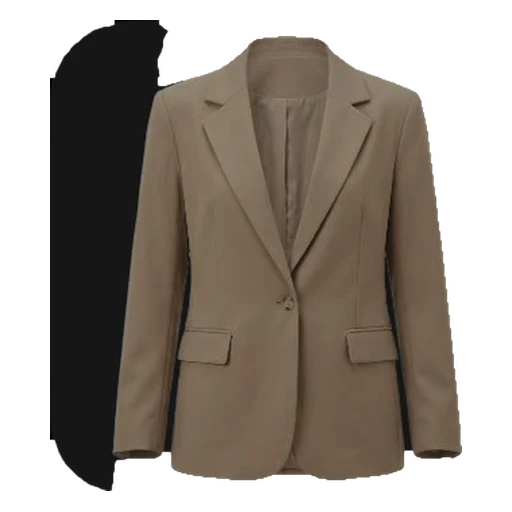
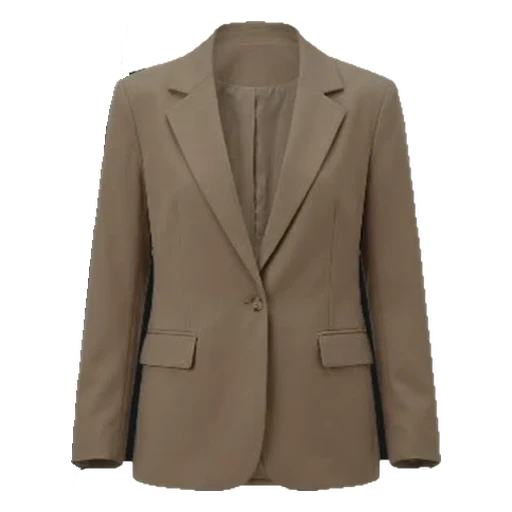
guarda-roupa: 210 pecas dos prints, joias e chapeus separados, sub-filtros

diff --git a/js/app.js b/js/app.js
@@ -39,7 +39,7 @@
     vestido: { l: 27, t: 5, w: 46 }, top: { l: 5, t: 8, w: 40 }, casaco: { l: 46, t: 3, w: 51 },
     bottom: { l: 8, t: 42, w: 43 }, calcado: { l: 58, t: 58, w: 29 }
   };
-  var ACC_POS = [{ l: 5, t: 76, w: 19 }, { l: 27, t: 79, w: 17 }, { l: 47, t: 82, w: 16 }, { l: 66, t: 84, w: 15 }];
+  // faixa de acessórios: linha limpa embaixo, distribuída conforme a quantidade
 
   var PROMPT_PRODUTO = "foto de produto desta peça de roupa, vestida em manequim invisível, esticada sem amassados, fundo branco puro, luz de estúdio suave, vista frontal centralizada, peça inteira visível, sem pessoa, sem sombra no chão";
   var PROMPT_LOOK = "a modelo da primeira imagem vestindo exatamente as peças da segunda imagem, mesma pose de pé de frente, corpo inteiro dos pés à cabeça, mesmo rosto e mesmo cabelo, fundo branco liso, luz de estúdio suave e uniforme, foto de catálogo realista, roupas caindo naturalmente no corpo, sem alterar o rosto, sem texto";
@@ -363,7 +363,7 @@
       m.appendChild(f);
       var r = el("div", "row");
       var b1 = el("button", "btn solid"); b1.innerHTML = svg(IC.check) + " Usar num look";
-      b1.onclick = function () { if (it.cat === "acessorio") { if (S.acc.indexOf(it.id) < 0) S.acc.push(it.id); } else { S.sel[it.cat] = it.id; } fechar(); abrirMontador(); };
+      b1.onclick = function () { if (it.cat === "acessorio" || it.cat === "joia" || it.cat === "chapeu") { if (S.acc.indexOf(it.id) < 0) S.acc.push(it.id); } else { S.sel[it.cat] = it.id; } fechar(); abrirMontador(); };
       r.appendChild(b1);
       var b2 = el("button", "btn"); b2.innerHTML = svg(IC.spark) + (it.pendente ? " Tratar foto" : " Refazer foto");
       b2.onclick = function () { tratarPeca(it, b2); };
@@ -403,11 +403,22 @@
       var p = LAY[role]; var im = el("img"); im.src = byId[id].src; im.alt = byId[id].nome;
       im.style.left = p.l + "%"; im.style.top = p.t + "%"; im.style.width = p.w + "%"; box.appendChild(im);
     });
-    (accs || []).slice(0, 4).forEach(function (id, k) {
-      if (!byId[id]) return; var p = ACC_POS[k];
-      var im = el("img"); im.src = byId[id].src; im.alt = byId[id].nome;
-      im.style.left = p.l + "%"; im.style.top = p.t + "%"; im.style.width = p.w + "%"; box.appendChild(im);
-    });
+    var lista = (accs || []).filter(function (id) { return byId[id]; }).slice(0, 6);
+    if (lista.length) {
+      var n = lista.length;
+      var w = n <= 2 ? 20 : n <= 4 ? 17 : 14;      // peça menor conforme enche a faixa
+      var gap = 3, total = n * w + (n - 1) * gap;
+      var x0 = (100 - total) / 2;
+      lista.forEach(function (id, k) {
+        var im = el("img"); im.src = byId[id].src; im.alt = byId[id].nome;
+        im.style.left = (x0 + k * (w + gap)) + "%";
+        im.style.top = "78%";
+        im.style.width = w + "%";
+        im.style.height = "20%";
+        im.style.objectFit = "contain";
+        box.appendChild(im);
+      });
+    }
     if (!Object.keys(sel).length && !(accs || []).length) box.appendChild(el("div", "ph", "escolha as peças"));
   }
 
@@ -416,7 +427,7 @@
       S.sel = {}; S.acc = [];
       (edit.itens || []).forEach(function (id) {
         var it = byId[id]; if (!it) return;
-        if (it.cat === "acessorio") S.acc.push(id); else S.sel[it.cat] = id;
+        if (it.cat === "acessorio" || it.cat === "joia" || it.cat === "chapeu") S.acc.push(id); else S.sel[it.cat] = id;
       });
     }
     abrirModal(function (m) {
@@ -467,9 +478,31 @@
   }
 
   function escolher(cat, cb, multi) {
-    var l = itens.filter(function (i) { return i.cat === cat; });
+    var grupos = cat === "acessorio" ? ["acessorio", "joia", "chapeu"] : [cat];
+    var l = itens.filter(function (i) { return grupos.indexOf(i.cat) >= 0; });
     abrirModal(function (m) {
-      cabeca(m, (CATS.filter(function (c) { return c.id === cat; })[0] || {}).nome || cat, l.length + " opções" + (multi ? " · pode escolher vários" : ""));
+      cabeca(m, cat === "acessorio" ? "Acessórios, joias e chapéus" : ((CATS.filter(function (c) { return c.id === cat; })[0] || {}).nome || cat), l.length + " opções" + (multi ? " · pode escolher vários" : ""));
+      if (multi) {
+        var fr = el("div", "rail rail-sub"); fr.style.marginBottom = "10px";
+        var atual = { v: "todas" };
+        function pinta() {
+          [].slice.call(fr.children).forEach(function (b) { b.setAttribute("aria-pressed", String(b.dataset.k === atual.v)); });
+          [].slice.call(m.querySelectorAll(".grid > *")).forEach(function (n, k) {
+            n.style.display = (atual.v === "todas" || l[k].sub === atual.v || l[k].cat === atual.v) ? "" : "none";
+          });
+        }
+        [["todas", "Tudo"], ["bolsa", "Bolsas"], ["cinto", "Cintos"], ["óculos", "Óculos"],
+         ["lenço", "Lenços"], ["joia", "Joias"], ["chapeu", "Chapéus"]].forEach(function (e) {
+          var n = e[0] === "todas" ? l.length : l.filter(function (i) { return i.sub === e[0] || i.cat === e[0]; }).length;
+          if (!n) return;
+          var b = el("button", "chip sub"); b.innerHTML = e[1] + '<span class="n">' + n + "</span>";
+          b.dataset.k = e[0];
+          b.onclick = function () { atual.v = e[0]; pinta(); };
+          fr.appendChild(b);
+        });
+        m.appendChild(fr);
+        setTimeout(pinta, 0);
+      }
       var g = el("div", "grid");
       l.forEach(function (i) {
         g.appendChild(tile(i, function () {
@@ -520,7 +553,7 @@
     var c = el("div", "ocard");
     var box = el("div", "flat");
     var sel = {}, accs = [];
-    (o.itens || []).forEach(function (id) { var it = byId[id]; if (!it) return; if (it.cat === "acessorio") accs.push(id); else sel[it.cat] = id; });
+    (o.itens || []).forEach(function (id) { var it = byId[id]; if (!it) return; if (it.cat === "acessorio" || it.cat === "joia" || it.cat === "chapeu") accs.push(id); else sel[it.cat] = id; });
     flatLay(box, sel, accs, o.lookUrl);
     c.appendChild(box);
     var b = el("div", "obody");

diff --git a/js/data.js b/js/data.js
@@ -23,7 +23,6 @@ window.CATALOGO = [
 ["p108","Top acetinado cobre","top","alça","VP"],
 ["p178","Top acetinado cobre","top","alça","VP"],
 ["p101","Top listrado com folhagem","top","alça","V"],
-["item_123","Top listrado com folhagem","top","alça","V"],
 ["p063","Top marrom com torção","top","alça","VP"],
 ["p099","Top pink de paetê","top","alça","V"],
 ["p131","Top roxo com laço","top","alça","VP"],
@@ -39,7 +38,6 @@ window.CATALOGO = [
 ["p141","Camisa do Grêmio","top","manga curta","VOIP"],
 ["p128","Camisa do Grêmio Suárez","top","manga curta","VOIP"],
 ["p035","Camiseta branca com estampa","top","manga curta","VP"],
-["item_131","Camiseta branca com estampa","top","manga curta","VP"],
 ["p070","Camiseta marrom Salmos","top","manga curta","VOP"],
 ["p022","Camiseta preta básica","top","manga curta","VOP"],
 ["p021","Camiseta preta com logo","top","manga curta","VOP"],
@@ -163,7 +161,7 @@ window.CATALOGO = [
 ["p119","Sandália branca salto bloco","calcado","sandália","VP"],
 ["p175","Sandália branca salto bloco","calcado","sandália","VP"],
 ["p087","Sandália gladiadora preta","calcado","sandália","VP"],
-["p181","Sandália gladiadora preta","calcado","sandália","VP"],
+["item_092","Sandália gladiadora preta","calcado","sandália","VP"],
 ["p157","Sandália nude com glitter","calcado","sandália","VP"],
 ["p164","Sandália nude com glitter","calcado","sandália","VP"],
 ["p158","Sandália pink salto fino","calcado","sandália","VP"],
@@ -194,7 +192,6 @@ window.CATALOGO = [
 ["p068","Cachecol marrom com franjas","acessorio","lenço","OI"],
 ["p083","Echarpe preta","acessorio","lenço","OI"],
 ["p125","Lenço estampado dourado","acessorio","lenço","OIP"],
-["item_029","Lenço estampado dourado","acessorio","lenço","OIP"],
 ["p123","Lenço pied-de-poule","acessorio","lenço","OI"],
 ["p122","Lenço vermelho de Roma","acessorio","lenço","OI"],
 ["p171","Lenço vermelho de Roma","acessorio","lenço","OI"],

diff --git a/index.html b/index.html
@@ -19,7 +19,7 @@
     <div class="top-in">
       <div class="brand">
         <h1 class="d1">Guarda-<br>Roupa</h1>
-        <span class="sticker" id="count">210 peças</span>
+        <span class="sticker" id="count">207 peças</span>
       </div>
       <div class="top-acts">
         <button class="sq" id="btnAdd" title="Adicionar peça" aria-label="Adicionar peça">
